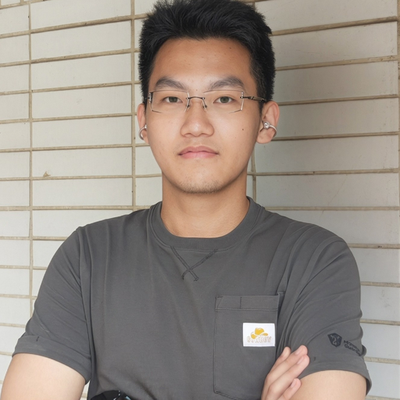
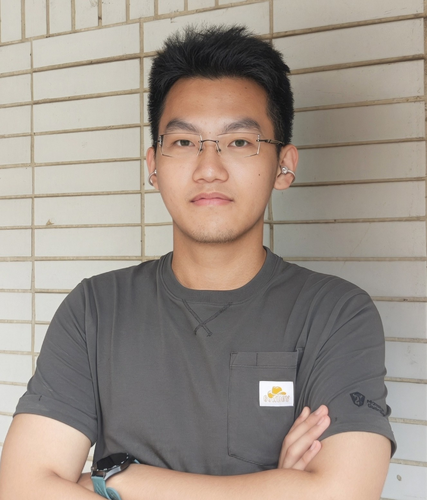
docs: 团队照片改用原始比例，去掉固定方框

diff --git a/README.md b/README.md
@@ -44,7 +44,7 @@
 <table>
   <tr>
     <td align="center">
-      <img src="docs/team/oyb.png" width="150" height="150" style="object-fit:cover;border-radius:8px;"><br>
+      <img src="docs/team/oyb.png" width="180"><br>
       <b>Prof. Ouyang Bo</b> (欧阳波)<br>
       <sub>Faculty Advisor · Associate Professor</sub>
     </td>
@@ -56,17 +56,17 @@
 <table>
   <tr>
     <td align="center">
-      <img src="docs/team/pzl.png" width="150" height="150" style="object-fit:cover;border-radius:8px;"><br>
+      <img src="docs/team/pzl.png" width="180"><br>
       <b>Pan Zilong</b> (潘子龙)<br>
       <sub>Team Lead · AI cloud-edge integration, HW/SW system integration</sub>
     </td>
     <td align="center">
-      <img src="docs/team/csy.png" width="150" height="150" style="object-fit:cover;border-radius:8px;"><br>
+      <img src="docs/team/csy.png" width="180"><br>
       <b>Chen Shiyu</b> (陈诗雨)<br>
       <sub>CARLA simulation, hardware emulation</sub>
     </td>
     <td align="center">
-      <img src="docs/team/zhy.png" width="150" height="150" style="object-fit:cover;border-radius:8px;"><br>
+      <img src="docs/team/zhy.png" width="180"><br>
       <b>Zhao Hanyue</b> (赵寒玥)<br>
       <sub>HMI design & development, theoretical research</sub>
     </td>
@@ -78,17 +78,17 @@
 <table>
   <tr>
     <td align="center">
-      <img src="docs/team/jjs.png" width="150" height="150" style="object-fit:cover;border-radius:8px;"><br>
+      <img src="docs/team/jjs.png" width="180"><br>
       <b>Jia Junsong</b> (贾竣淞)<br>
       <sub>Cockpit experimental platform design & modeling</sub>
     </td>
     <td align="center">
-      <img src="docs/team/jyc.png" width="150" height="150" style="object-fit:cover;border-radius:8px;"><br>
+      <img src="docs/team/jyc.png" width="180"><br>
       <b>Ji Yicheng</b> (计邑澄)<br>
       <sub>Software & hardware development</sub>
     </td>
     <td align="center">
-      <img src="docs/team/lzc.png" width="150" height="150" style="object-fit:cover;border-radius:8px;"><br>
+      <img src="docs/team/lzc.png" width="180"><br>
       <b>Li Zhecheng</b> (黎哲成)<br>
       <sub>Human-factors experiment design, cockpit platform construction</sub>
     </td>
